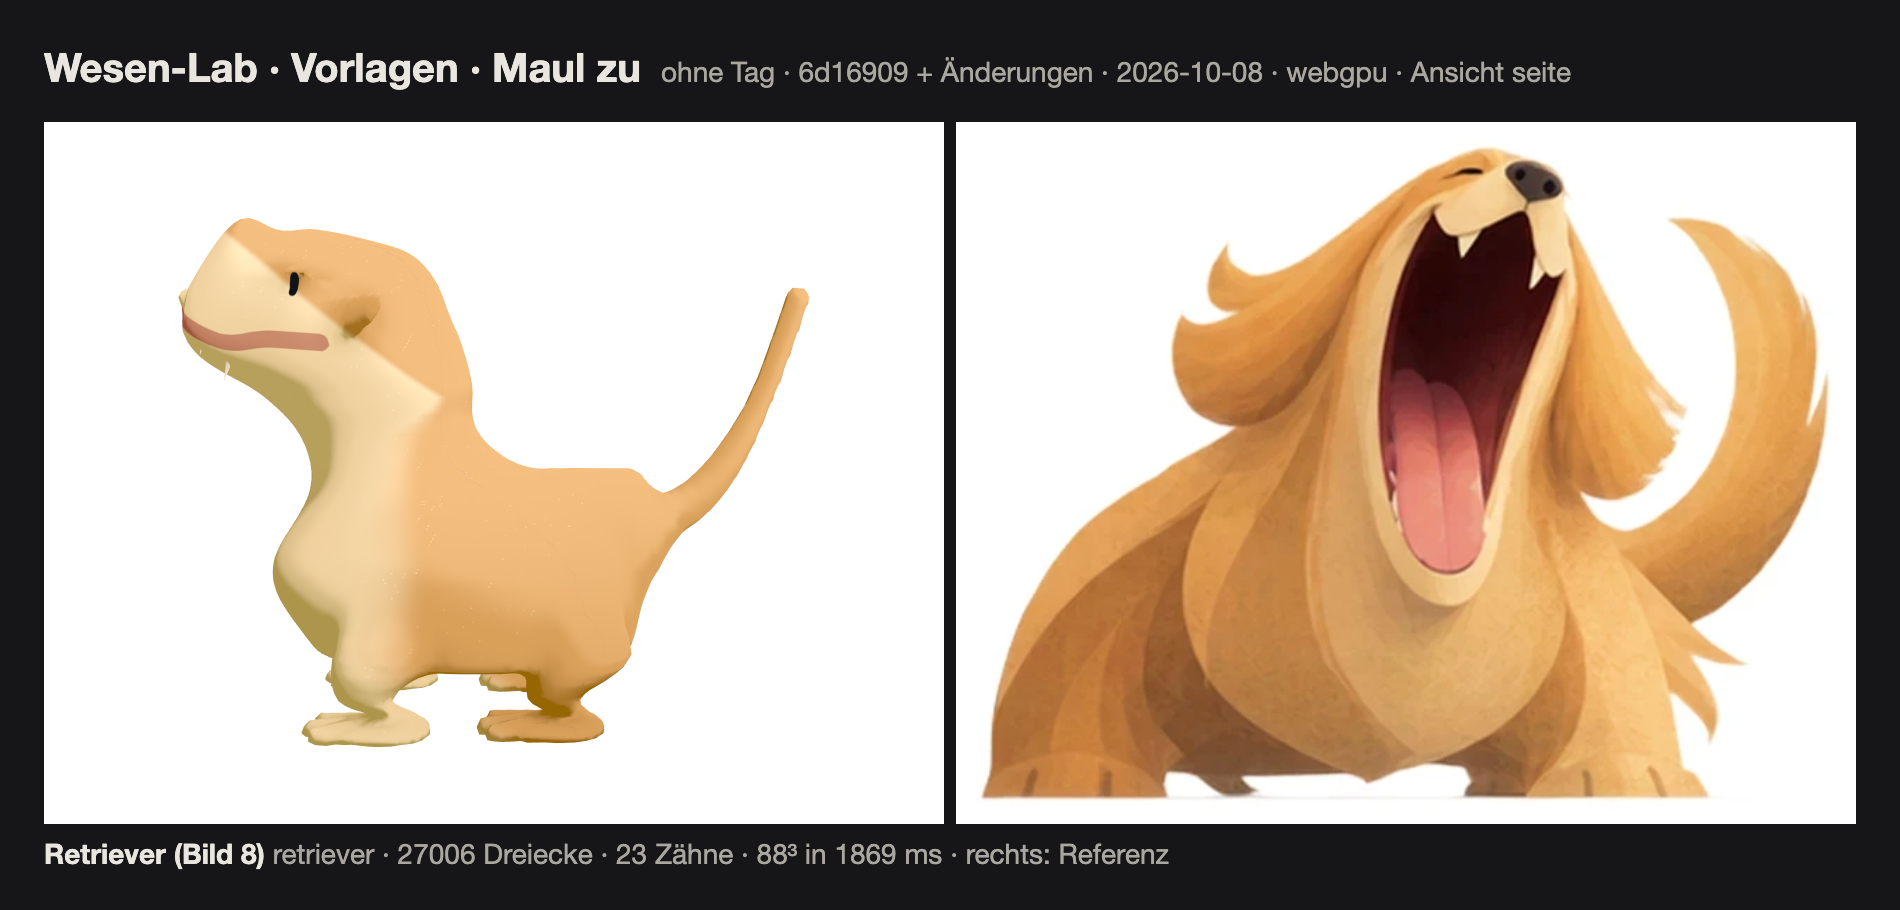
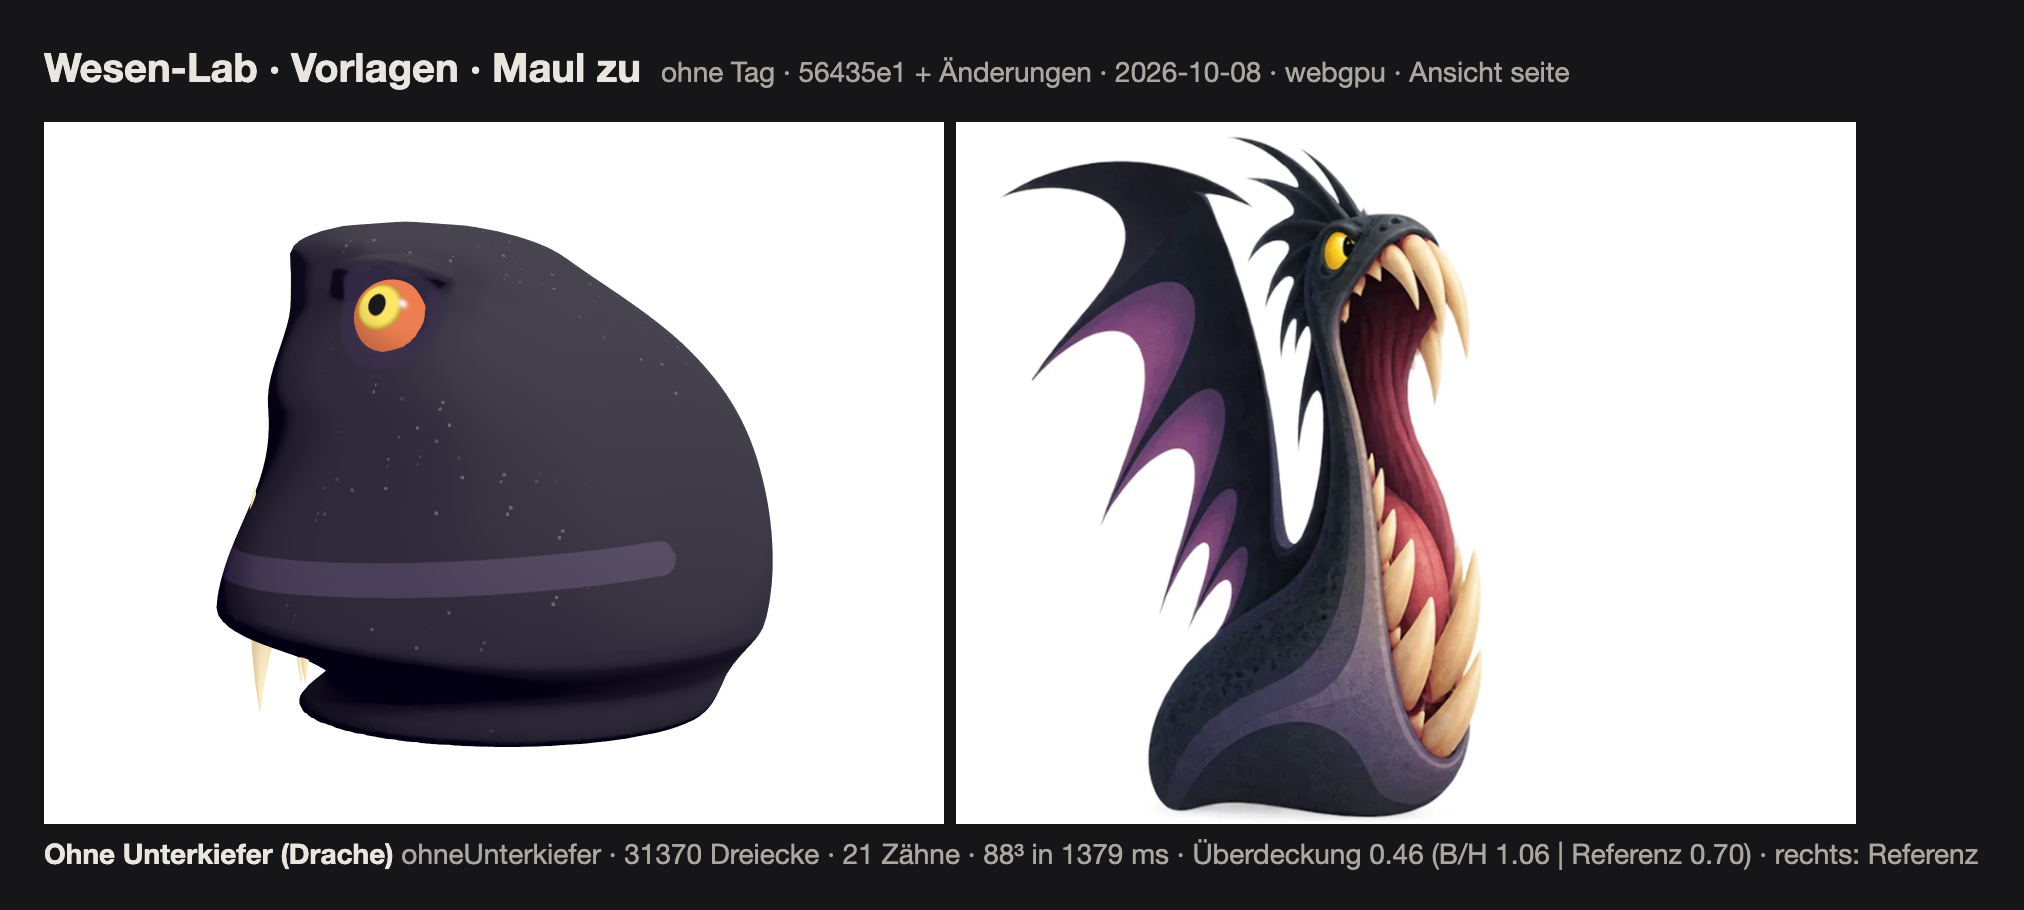
Wesen-Werkstatt: Drachenmaul schmaler (Linie wickelte sich um den Körper), Übergabe nach Block 5

diff --git a/apps/game/src/lab/wesen/presets.ts b/apps/game/src/lab/wesen/presets.ts
@@ -10,7 +10,7 @@ export const WESEN_VORLAGEN: Array<{ id: string; name: string; bauplan: BauplanI
   { id: 'loch', name: 'Lochmaul (Fisch)', bauplan: { name: 'Lochmaul', koerper: { hoehe: 0.9, breite: 0.8, laenge: 1.2 }, maul: { hoehe: 0.5, form: 0, breite: 0.7, oeffnung: 0.7, lippe: 0.6, tiefe: 0.6, schwung: 0 }, zaehne: { stil: 'keine' }, augen: { hoehe: 0.45, lage: 0.3, abstand: 0.7, groesse: 0.6 }, muster: { farben: { grund: '#f2b233', bauch: '#f7e0a0', lippe: '#c9821f', rachen: '#7c2a3a' } } } },
   { id: 'hoch', name: 'Maul oben', bauplan: { name: 'Maul oben', maul: { hoehe: 0.82, neigung: 0.2, form: 1, winkel: 0.4, breite: 0.8, oberkiefer: 0.6, unterkiefer: 1.1, oeffnung: 0.6, schwung: 0.2 }, augen: { hoehe: 0.5, abstand: 0.8 }, muster: { farben: { grund: '#58a85a', bauch: '#c8e0a0', lippe: '#3b6f3c', rachen: '#6e2334' } } } },
   { id: 'tief', name: 'Maul unten', bauplan: { name: 'Maul unten', maul: { hoehe: 0.14, neigung: -0.2, form: 1, winkel: 0.7, breite: 0.9, oberkiefer: 1.3, unterkiefer: 0.6, oeffnung: 0.6, schwung: 0.3 }, augen: { hoehe: 0.25, abstand: 0.6 }, muster: { farben: { grund: '#c9574a', bauch: '#f0c7a8', lippe: '#8a3a30', rachen: '#5e1c28' } } } },
-  { id: 'ohneUnterkiefer', name: 'Ohne Unterkiefer (Drache)', bauplan: { name: 'Ohne Unterkiefer', koerper: { hoehe: 1.2, breite: 0.8, laenge: 0.85, neigung: 0.4, bogen: -0.6, buckel: 0.2, bauch: 0.3, boden: 0.8, querschnitte: [1.0, 1.0, 0.9, 0.78, 0.6] }, hals: { laenge: 0 }, kopf: { groesse: 1.4, laenge: 1.0, schnauze: 0.35, braue: 0.6 }, maul: { hoehe: 0.32, neigung: 0.3, schwung: 0, form: 1, rundung: 0.4, winkel: 0.45, breite: 0.9, oberkiefer: 1.5, unterkiefer: 0.35, biss: 0, lippe: 0.2, kante: 0.2, oeffnung: 0.7, tiefe: 1.0, oeffnungOben: 0.5, kehle: 0.8 }, zaehne: { stil: 'spitz', groesse: 1.0, dichte: 0.45, streuung: 0.6, eckzaehne: 1.0, biegung: 0.9, hauer: 1.0, aussen: 1.0 }, zunge: { groesse: 1.0 }, augen: { typ: 'drache', hoehe: 0.75, lage: 0.35, abstand: 0.6, groesse: 0.5, tiefe: 0.3, ring: 0.6 }, unterkoerper: { typ: 'keiner' }, schwanz: { typ: 'keiner' }, muster: { farben: { grund: '#2f2a3a', bauch: '#5a4e6c', lippe: '#4a3f58', rachen: '#6b1f33', zunge: '#c96a80' } } } },
+  { id: 'ohneUnterkiefer', name: 'Ohne Unterkiefer (Drache)', bauplan: { name: 'Ohne Unterkiefer', koerper: { hoehe: 1.2, breite: 0.8, laenge: 0.85, neigung: 0.4, bogen: -0.6, buckel: 0.2, bauch: 0.3, boden: 0.8, querschnitte: [1.0, 1.0, 0.9, 0.78, 0.6] }, hals: { laenge: 0 }, kopf: { groesse: 1.4, laenge: 1.0, schnauze: 0.35, braue: 0.6 }, maul: { hoehe: 0.32, neigung: 0.3, schwung: 0, form: 1, rundung: 0.4, winkel: 0.3, breite: 0.75, oberkiefer: 1.5, unterkiefer: 0.35, biss: 0, lippe: 0.2, kante: 0.2, oeffnung: 0.7, tiefe: 1.0, oeffnungOben: 0.5, kehle: 0.8 }, zaehne: { stil: 'spitz', groesse: 1.0, dichte: 0.45, streuung: 0.6, eckzaehne: 1.0, biegung: 0.9, hauer: 1.0, aussen: 1.0 }, zunge: { groesse: 1.0 }, augen: { typ: 'drache', hoehe: 0.75, lage: 0.35, abstand: 0.6, groesse: 0.5, tiefe: 0.3, ring: 0.6 }, unterkoerper: { typ: 'keiner' }, schwanz: { typ: 'keiner' }, muster: { farben: { grund: '#2f2a3a', bauch: '#5a4e6c', lippe: '#4a3f58', rachen: '#6b1f33', zunge: '#c96a80' } } } },
   { id: 'giraffe', name: 'Langer Hals (Giraffe)', bauplan: { name: 'Langer Hals', koerper: { hoehe: 0.9, breite: 1.0, laenge: 1.05, bauch: 0.3, boden: 0.35, querschnitte: [0.98, 1.0, 0.85, 0.6, 0.4] }, hals: { laenge: 1.25, dicke: 0.5, kruemmung: 0.25, ansatz: 0.6 }, kopf: { groesse: 0.9, laenge: 1.3, schnauze: 0.9, schnauzeDicke: 0.95, neigung: -0.15, ohren: 0.8, hoerner: 0.7 }, maul: { hoehe: 0.3, neigung: 0.1, form: 0.6, rundung: 1, winkel: 0.2, breite: 0.48, oberkiefer: 1.0, unterkiefer: 0.8, lippe: 0, oeffnung: 1.0, tiefe: 0.6, oeffnungOben: 0.25, schwung: 0.15, bohne: 0.6 }, zaehne: { stil: 'keine' }, augen: { typ: 'gross', hoehe: 0.5, lage: 0.68, abstand: 0.85, groesse: 0.3, tiefe: 0.3 }, unterkoerper: { typ: 'beine', beine: { anzahl: 4, dicke: 0.28, schenkel: 0.2, laenge: 0.25, fuss: 0.25, spreiz: 0.3 } }, schwanz: { typ: 'anhang', laenge: 0.6, dicke: 0.25, hoch: -0.4, kruemmung: 0.1 }, muster: { typ: 'platten', dichte: 0.6, groesse: 0.6, farben: { grund: '#e8cfa0', bauch: '#f3e6c8', muster: '#b8894a', lippe: '#c9a889', rachen: '#b24a52', zunge: '#e8899a' } } } },
   { id: 'schlange', name: 'Schlange', bauplan: { name: 'Schlange', koerper: { hoehe: 0.8, breite: 0.9, laenge: 1.0, neigung: 0.2 }, maul: { hoehe: 0.4, form: 0.9, rundung: 0.6, winkel: 0.8, breite: 0.9, oberkiefer: 1.1, unterkiefer: 0.8, lippe: 0.25, oeffnung: 0.7, tiefe: 0.8, schwung: 0.5 }, zaehne: { groesse: 0.6, dichte: 0.7 }, augen: { typ: 'schlange', hoehe: 0.4, abstand: 0.7, groesse: 0.55 }, unterkoerper: { typ: 'schlange', schlange: { laenge: 1.8, dicke: 0.7, einrollen: 0.5 } }, muster: { typ: 'schuppen', dichte: 0.55, groesse: 0.35, farben: { grund: '#3a7ca5', bauch: '#bfe3d6', muster: '#245a7a', akzent: '#9fe0d0', lippe: '#2a5676', rachen: '#6e2334' } } } },
   { id: 'aal', name: 'Aal (Bild 16)', bauplan: { name: 'Aal', koerper: { hoehe: 0.85, breite: 0.95, laenge: 1.05, neigung: 0.25, buckel: 0.1 }, kopf: { braue: 0.25 }, maul: { hoehe: 0.42, form: 0.6, rundung: 1, winkel: 0.7, breite: 1.0, oberkiefer: 1.0, unterkiefer: 0.9, lippe: 0, oeffnung: 0.75, tiefe: 0.75, schwung: 0.4 }, zaehne: { stil: 'spitz', groesse: 0.5, dichte: 0.85, streuung: 0, eckzaehne: 0 }, zunge: { groesse: 0.7 }, augen: { typ: 'schlange', hoehe: 0.5, lage: 0.7, abstand: 0.65, groesse: 0.5, tiefe: 0.35 }, unterkoerper: { typ: 'schlange', schlange: { laenge: 1.25, dicke: 0.95, einrollen: 0.85 } }, muster: { typ: 'schuppen', dichte: 0.5, groesse: 0.4, bauchlinie: 0.5, farben: { grund: '#3f8db3', bauch: '#cfe6c9', muster: '#2a5f8c', akzent: '#9fd9d2', lippe: '#2f6a8a', rachen: '#8a2e3c', zunge: '#e38aa0' } } } },

diff --git a/docs/UEBERGABE.md b/docs/UEBERGABE.md
@@ -63,15 +63,15 @@ Florian: W beim Goldie nicht hunde-/katzentypisch; Oberschenkel passen gar nicht
 - **Beine** (`sdf/build.ts`): dicke Säule aus dem Rumpf (Radius 0,1 H + 0,2 · Dicke + 0,15 · Schenkel; Rex ≈ Rumpfbreite), kaum verjüngt, am Boden **Saugnapf** (weitet sich über die letzten ≈ 20 % auf den Fußradius, flache Standfläche mit runder Kante, vorn etwas länger), weiche Verschmelzung (k ≈ 0,1–0,18 H). Keine Zehen.
 - **ω‑Lippe** (`mouth.ts`): schmale Spitze unter der Nase (Philtrum), Lefzen hängen dicht daneben tief (u ≈ 0,26), zum Winkel steigt die Linie (Lächeln). Nase sitzt über der Spitze.
 - **Zahnreihen** (`mesh/build.ts`): Abstand aus Dichte **und** Zahnbreite (große Zähne nehmen mehr Platz), Fänge mit Spitze bei u ≈ 0,2, nach hinten kleiner, Wechsel groß/klein (`streuung`), vorn leicht nach vorn geneigt, Biegung nach innen.
-- **Unterkiefer‑Spielraum**: Faltbudget 1,1 · Biegezone (die Ketten biegen statt zu stauchen); Rex `kehle` 0,6, Retriever 0,5 → der Unterkörper (Kehle → Brust) folgt dem Unterkiefer; Drache `oeffnungOben` 0,5 → Maul geht nach oben auf.
+- **Unterkiefer‑Spielraum**: Faltbudget 1,1 · Biegezone (die Ketten biegen statt zu stauchen); Rex `kehle` 0,6, Retriever 0,5 → der Unterkörper (Kehle → Brust) folgt dem Unterkiefer; Drache `oeffnungOben` 0,5 → Maul geht nach oben auf. Zahnlängen: außen liegende Fänge dürfen bis zum Dreifachen der Kiefertiefe hinausragen (Drache geschlossen, Bild 5 rechts).
 
 ## Was noch nicht stimmt (nach Florians Bildern)
 
-1. **Rex**: Maul reißt jetzt riesig auf (Unterkiefer 20°, Oberkiefer 72°, 35 Zähne); Rumpf noch ein Sack ohne Brust, die Schenkel sind von der Seite nicht als Keule lesbar (sie liegen in der Seitensilhouette des Rumpfs) — hier helfen Florians Blender‑Vorlagen; Flügel/Stummelarme später (eigene Elemente).
+1. **Rex**: dicke Stampfer mit Saugnapf‑Füßen stehen; der Rumpf ist noch ein Sack ohne Brust und der Schenkel von der Seite keine Keule — Florians Blender‑Vorlage abwarten; Flügel/Stummelarme später (eigene Elemente).
 2. **Tiger**: runder Schädel, kantige Schnauze mit W‑Lippe und Nase, Brauen über Schlitzaugen, dicke Schenkel seitlich — geschlossen jetzt eine grimmige Katze; von der Seite wirkt der Rumpf noch kastig (Buckel reduziert), Brustwulst (weißer Kragen), Nasenfarbe und kräftigere Streifen fehlen.
 3. **Kopfprofile** weiter aus Bild 11/6/9 verfeinern (Braue, Schnauzenrücken, Wangen → evtl. `kopf.wangen`).
 4. **Shading** zu glatt/„CG“ (Bögen: Airbrush, kühle gesättigte Schatten, Korn); Bauch-/Rücken-Linie hart.
-5. **Drache**: Maul riesig und nach vorn offen, Körper mit S‑Bogen; der untere Lippenring wirkt noch wie ein Topfrand (Kinnband flach, Unterkiefer dreht wegen Boden/Bauch nur 6°) — mit Florians Blender‑Vorlage nachziehen.
+5. **Drache**: geschlossen hängen die Hauer jetzt außen (Fänge bis zum Dreifachen der Kiefertiefe), offen ein riesiges Maul nach vorn/oben; die Maullinie wickelte sich wie ein Gürtel um den Körper (Breite/Winkel verkleinert, prüfen); der untere Lippenring bleibt flach (Kinnband), Unterkiefer dreht wegen Bauch/Boden kaum.
 6. **Augen**: Höhlenring und Oberlid da; Unterlid, Blickrichtung und Ausdrücke (Spirale, X) fehlen; Giraffen‑Augapfel noch halb aufgesetzt.
 7. **Silhouetten‑Überdeckung** gebaut; Werte liegen um 0,5–0,75 — die großen Abweichungen sind Masseverteilung (Rumpf zu schmal/hoch gegenüber den Bögen) und fehlende Elemente.
 8. Ohren, Hörner, Flügel, dünne Schwänze, Spinnenbeine, Rückenschuppen: **eigene Elemente** (Florian), nicht Teil der Masse.
